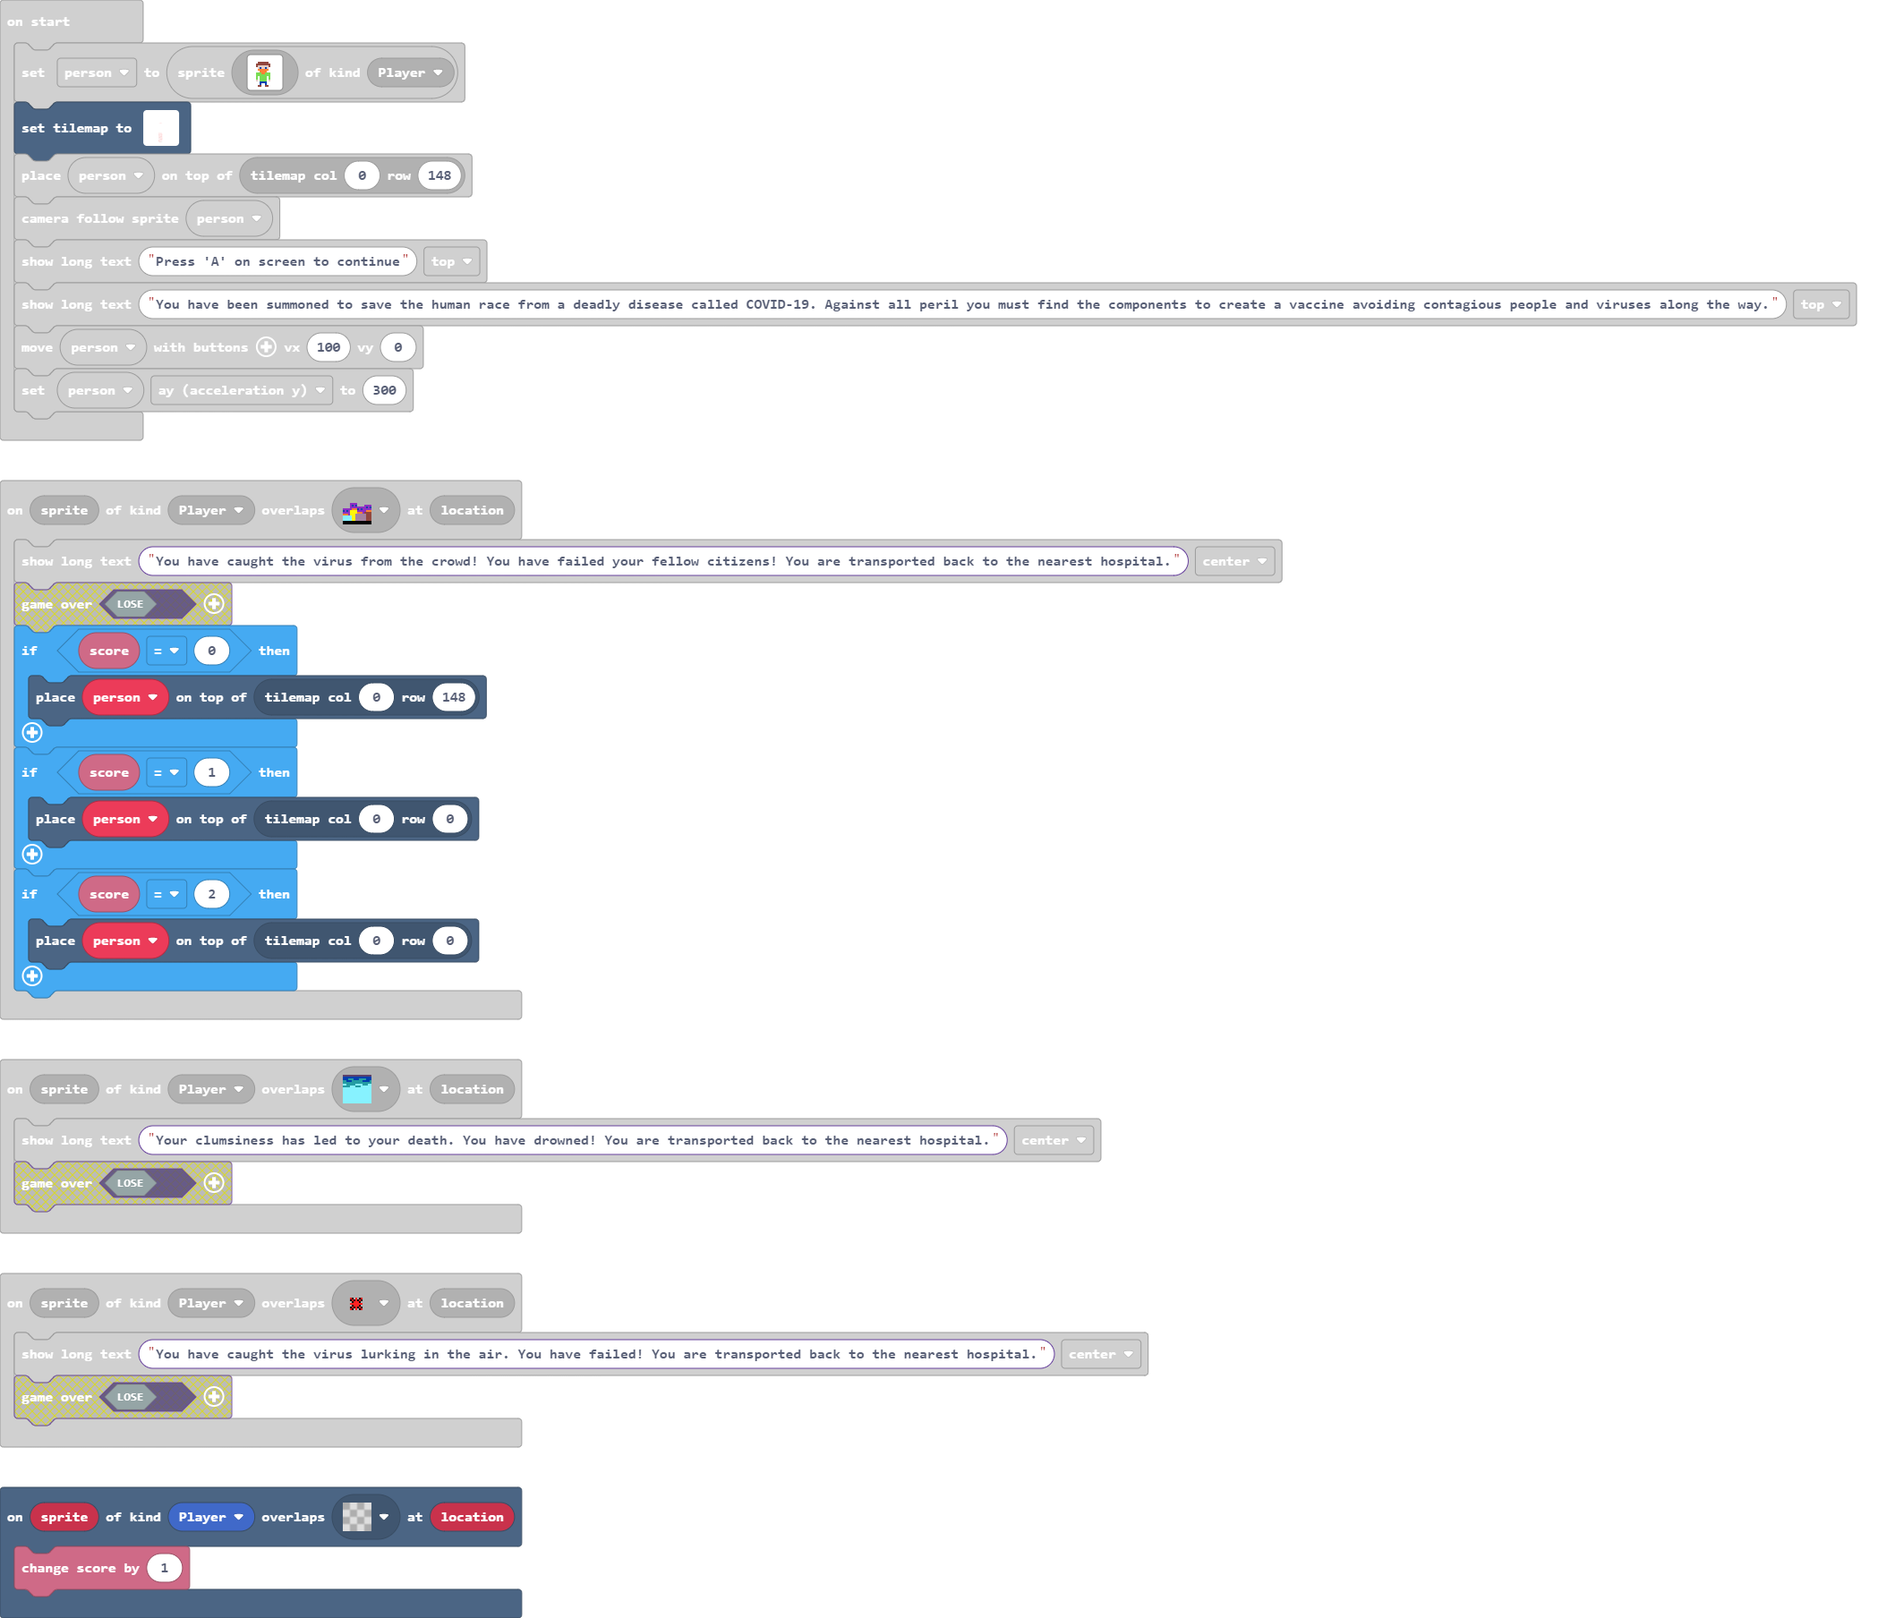
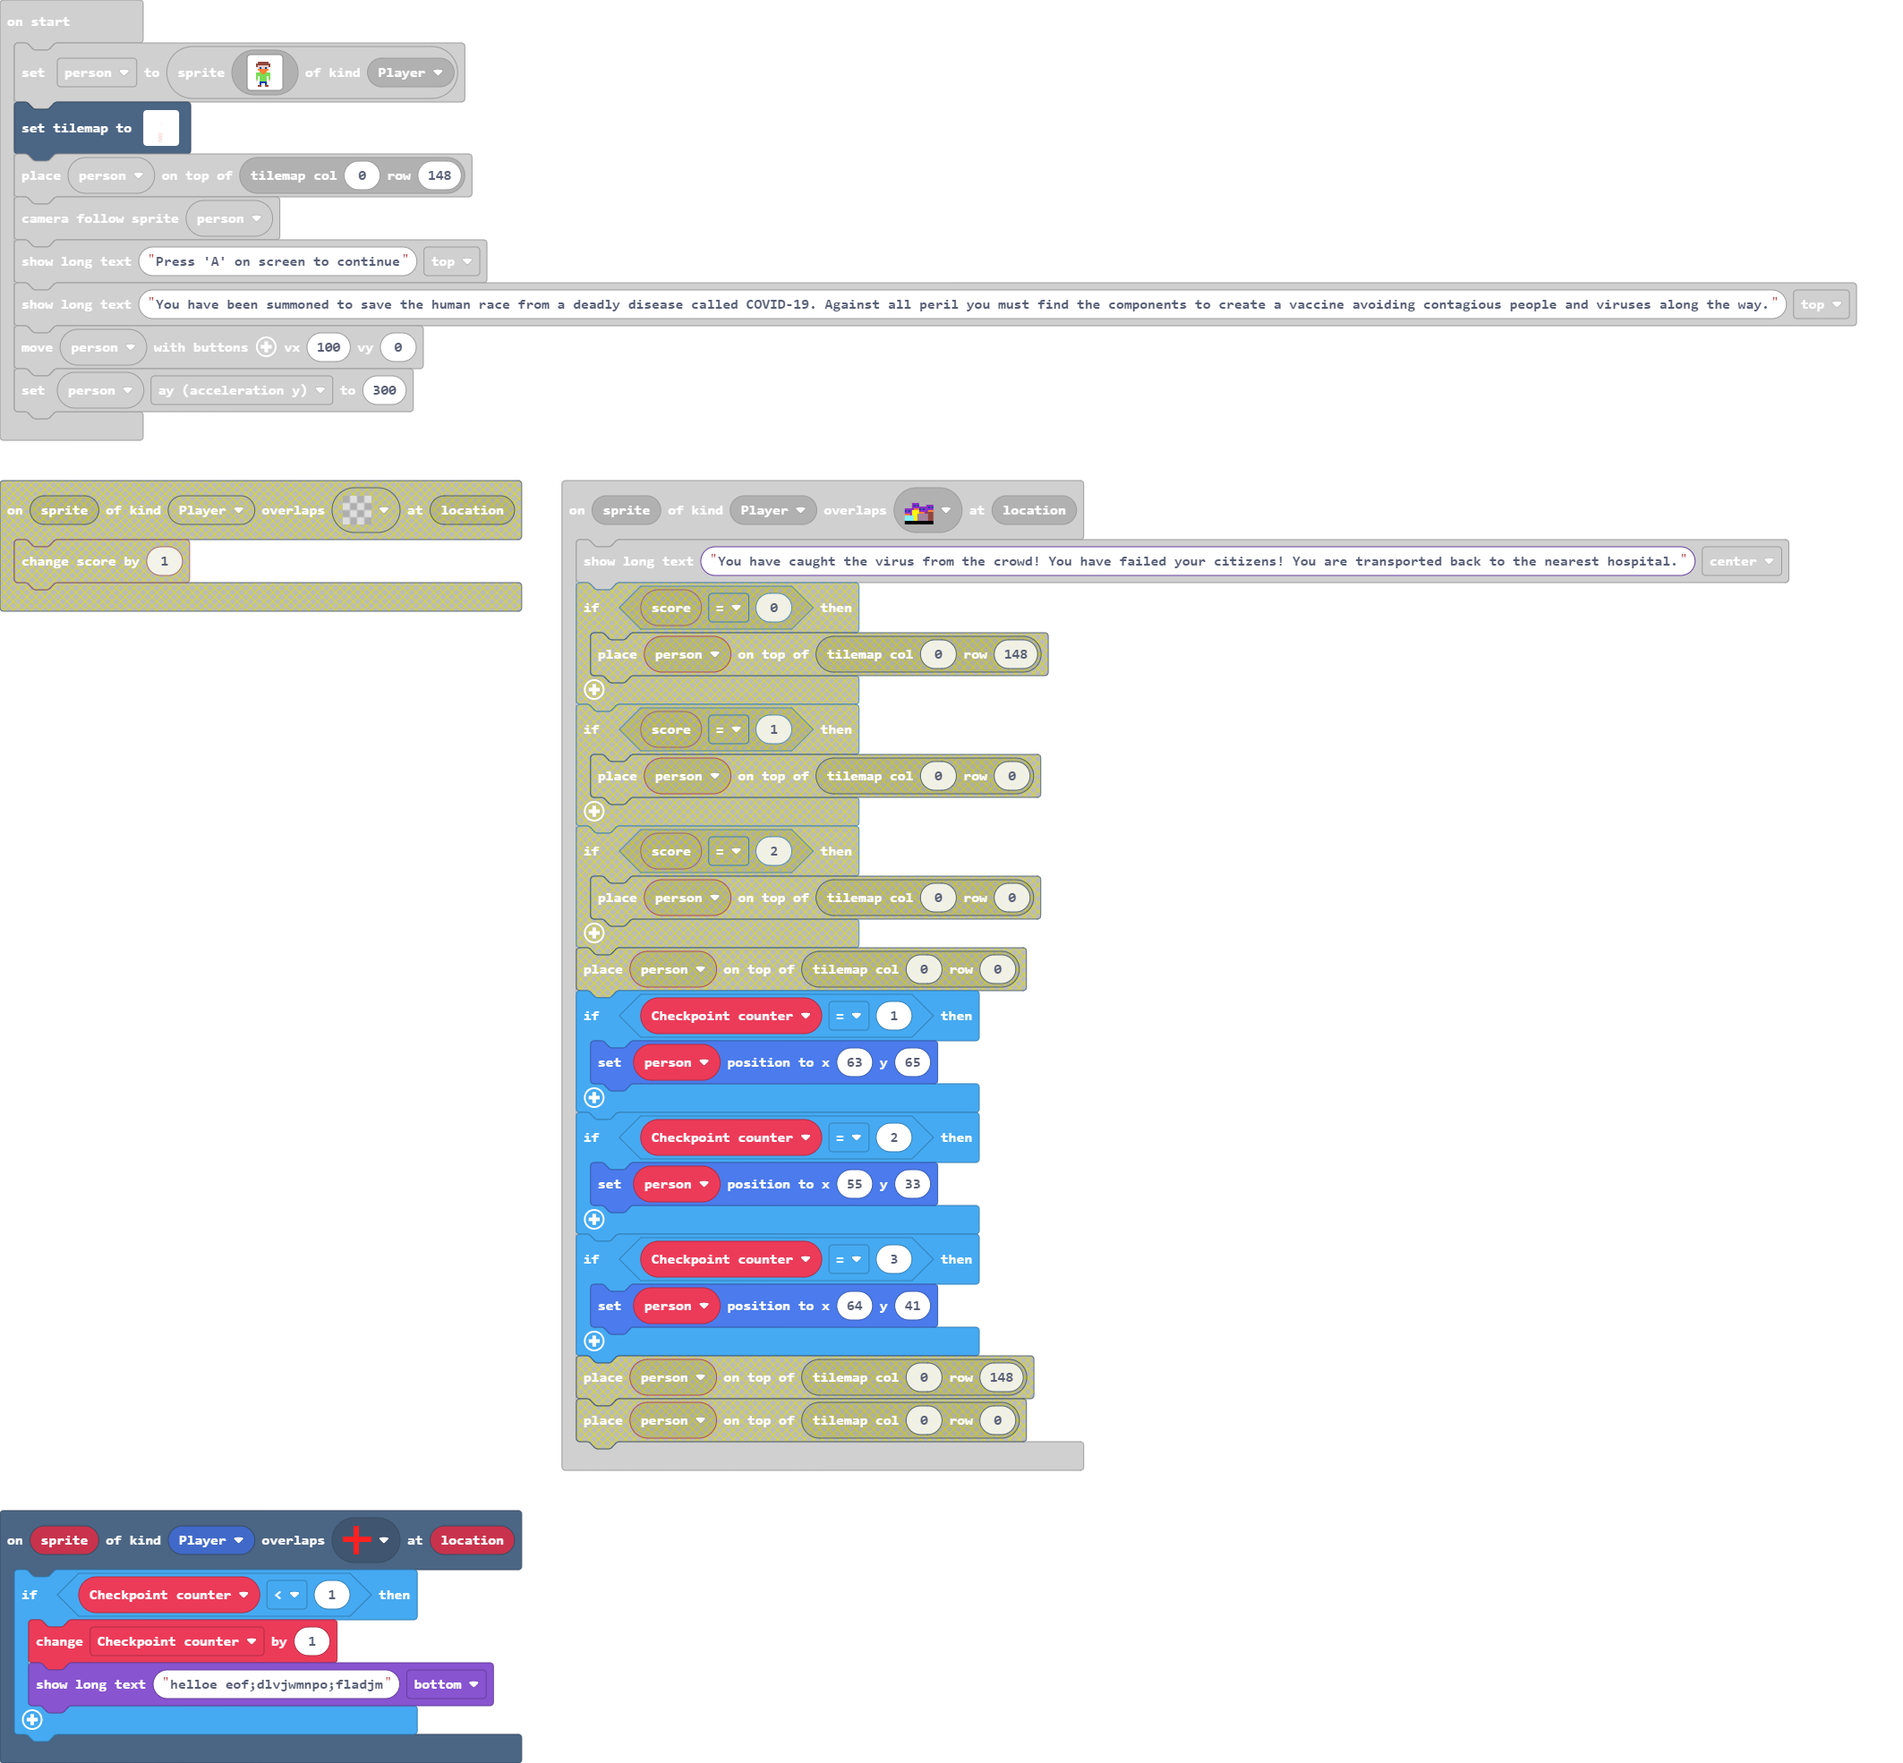
Variable Mark 02

diff --git a/main.ts b/main.ts
@@ -9,22 +9,25 @@ controller.up.onEvent(ControllerButtonEvent.Pressed, function () {
         person.vy = -150
     }
 })
-scene.onOverlapTile(SpriteKind.Player, myTiles.transparency16, function (sprite, location) {
-    info.changeScoreBy(1)
+scene.onOverlapTile(SpriteKind.Player, myTiles.tile8, function (sprite, location) {
+    if (Checkpoint_counter < 1) {
+        Checkpoint_counter += 1
+        game.showLongText("helloe eof;dlvjwmnpo;fladjm", DialogLayout.Bottom)
+    }
 })
 scene.onOverlapTile(SpriteKind.Player, sprites.dungeon.hazardWater, function (sprite, location) {
     game.showLongText("Your clumsiness has led to your death. You have drowned! You are transported back to the nearest hospital.", DialogLayout.Center)
 })
 scene.onOverlapTile(SpriteKind.Player, myTiles.tile7, function (sprite, location) {
-    game.showLongText("You have caught the virus from the crowd! You have failed your fellow citizens! You are transported back to the nearest hospital.", DialogLayout.Center)
-    if (info.score() == 0) {
-        tiles.placeOnTile(person, tiles.getTileLocation(0, 148))
+    game.showLongText("You have caught the virus from the crowd! You have failed your citizens! You are transported back to the nearest hospital.", DialogLayout.Center)
+    if (Checkpoint_counter == 1) {
+        person.setPosition(63, 65)
     }
-    if (info.score() == 1) {
-        tiles.placeOnTile(person, tiles.getTileLocation(0, 0))
+    if (Checkpoint_counter == 2) {
+        person.setPosition(55, 33)
     }
-    if (info.score() == 2) {
-        tiles.placeOnTile(person, tiles.getTileLocation(0, 0))
+    if (Checkpoint_counter == 3) {
+        person.setPosition(64, 41)
     }
 })
 controller.down.onEvent(ControllerButtonEvent.Pressed, function () {
@@ -33,6 +36,7 @@ controller.down.onEvent(ControllerButtonEvent.Pressed, function () {
 scene.onOverlapTile(SpriteKind.Player, sprites.dungeon.chestOpen, function (sprite, location) {
     game.showLongText("The chest is empty there are no components to find here!", DialogLayout.Top)
 })
+let Checkpoint_counter = 0
 let person: Sprite = null
 person = sprites.create(img`
     . . . . . . . . . . . . . . . . 
@@ -52,7 +56,7 @@ person = sprites.create(img`
     . . . . . 8 . . 8 . . . . . . . 
     . . . . e e . . e e . . . . . . 
     `, SpriteKind.Player)
-tiles.setTilemap(tiles.createTilemap(hex`14009600000000000000000000000000000000000000000000000000000000000000000000000000000000000000000000000000000000000000000000000000000000000000000000000000000000000000000000000000000000000000000000000000000000000000000000000000000000000000000000000000000000000000000000000000000000000000000000000000000000000000000000000000000000000000000000000000000000000000000000000000000000000000000000000000000000000000000000000000000000000000000000000000000000000000000000000000000000000000000000000000000000000000000000000000000000000000000000000000000000000000000000000000000000000000000000000000000000000000000000000000000000000000000000000000000000000000000001000000000000000000000000000000000000000000000000000000000000000000000000000000000000000000000000000000000000000000000000000000000000000000000000000000000000000000000000000000000000000000000000000000000000000000000000000000000000000000000000000000000000000000000000000000000000000000000000000000000000000000000000000000000000000000000000000000000000000000000000000000000000000000000000000000000000000000000000000000000000000000000000000000000000000000000000000000000000000000000000000000000000000000000000000000000000000000000000000000000000000000000000000000000000000000000000000000000000000000000000000000000000000000000000000000000000000000000000000000000000000000000000000000000000000000000000000000000000000000000000000000000000000000000000000000000000000000000000000000000000000000000000000000000000000000000000000000000000000000000000000000000000000000000000000000000000000000000000000000000000000000000000000000000000000000000000000000000000000000000000000000000000000000000000000000000000000000000000000000000000000000000000000000000000000000000000000000000000000000000000000000000000000000000000000000000000000000000000000000000000000000000000000000000000000000000000000000000000000000000000000000000000000000000000000000000000000000000000000202020202000000000000000000000000000000000000000002020200000000000000000000000000000000000000000202000000000000000000000000000000000000000200000000000000020202020202020202020202020000000000000000000000000000000000000000000000000000000000000000000000000000000000000000000000000000000000000000000000000000000000000000000000000000000000000000000000000000000000000000000000000000000000000000000000000000000000000000000000000000000000000000000000000000000000000000000000000000000000000000000000000000000000000000000000000000000000000000000000000000000000000000000000000000000000000000000000000000000000000000000000000000000000000000000000000000000000000000000000000000000000000000000000000000000000000000000000000000000000000000000000000000000000000000000000000000000000000000000000000000000000000000000000000000000000000000000000000000000000000000000000000000000000000000000000000000000000000000000000000000000000000000000000000000000000000000000000000000000000000000000000000000000000000000000000000000000000000000000000000000000000000000000000000000000000000000000000000000000000000000000000000000000000000000000000000000000000000000000000000000000000000000000000000000000000000000000000000000000000000000000000000000000000000000000000000000000000000000000000000000000000000000000000000000000000000000000000000000000000000000000000000000000000000000000000000000000000000000000000000000000000000000000000000000000000000000000000000000000000000000000000000000000000000000000000000000000000000000000000000000000000000000000000000000000000000000000000000000000000000000000000000000000000000000000000000000000000000000000000000000000000000000000000000000000000000000000000000000000000000000000000000000000000000000000000000000000000000000000000000000000000000000000000000000000000000000000000000000000000000000000000000000000000000000000000000000000000000000000000000000000000000000000000000000000000000000000000000000000000000000000000000000000000000000000000000000000000000000000000000000000000000000000000000000000000000000000000000000000000000000000000000000000000000000000000000000000000020202020202020202000002020202020202020200000000000000000000000000000000000000000000000000000000000000000000000000000000000000000000000000000000000000000000000000000000000000000000000000000000000000000000000000000000000000020202020202020202020202020202020202020000000000000000000000000000000000000000080002020202020202020202020202020202020202000000000000000000000000000000000000000002020202020202020202020202020202020000020000000000000000000000000000000000000202030700000300000000000000000000000202020202020202020203000000000000000202020202020202020202020202000000000202020202020202000000000000000000000000000000000000000000000200020002000200020002000200020002000000000000000000000000000000000000000000000200020002000200020002000200020002000200000000000000000000000005000000000000000205020002000205020002000200020502000200000000000000000000000000020202020202020202020002000200020002020202020000000602020200000003030303030302000000000002020202020002020202020202020200000002020202020202000000000000000000000002000000000000000202020202020202020202000000000000000000000000000000000000000202000002020202000000000005000000000000020202020200000000080005000000050000000005000000000000000202000000050000000005000000000000000200020200000000000005000000000000000200020002020005000500000000000000000200020002000202000000000000000000000200020002000200020200000000000000000200020002000200020002020000000000000200020002000200020002000202000000000200020002000200020002000200020200000202020302030203020302030203020302020200000202020202020202020202020202020202020200000000000000000000000000000000000002020200000000000000000000000000000000000202020200000005000900000000000000000000020202020200000000090002000000000000000002020202020000090900000000020000000000000200000202020902020200000000000200000000020700000209000000000000000000000002000000020000000000000000000000000000000000000000020000000202030302020000000000000200000000000002020202020202020000000200000008000000020202000000000000000200000000000202020202020404040404040404040404040404`, img`
+tiles.setTilemap(tiles.createTilemap(hex`14009600000000000000000000000000000000000000000000000000000000000000000000000000000000000000000000000000000000000000000000000000000000000000000000000000000000000000000000000000000000000000000000000000000000000000000000000000000000000000000000000000000000000000000000000000000000000000000000000000000000000000000000000000000000000000000000000000000000000000000000000000000000000000000000000000000000000000000000000000000000000000000000000000000000000000000000000000000000000000000000000000000000000000000000000000000000000000000000000000000000000000000000000000000000000000000000000000000000000000000000000000000000000000000000000000000000000000000001000000000000000000000000000000000000000000000000000000000000000000000000000000000000000000000000000000000000000000000000000000000000000000000000000000000000000000000000000000000000000000000000000000000000000000000000000000000000000000000000000000000000000000000000000000000000000000000000000000000000000000000000000000000000000000000000000000000000000000000000000000000000000000000000000000000000000000000000000000000000000000000000000000000000000000000000000000000000000000000000000000000000000000000000000000000000000000000000000000000000000000000000000000000000000000000000000000000000000000000000000000000000000000000000000000000000000000000000000000000000000000000000000000000000000000000000000000000000000000000000000000000000000000000000000000000000000000000000000000000000000000000000000000000000000000000000000000000000000000000000000000000000000000000000000000000000000000000000000000000000000000000000000000000000000000000000000000000000000000000000000000000000000000000000000000000000000000000000000000000000000000000000000000000000000000000000000000000000000000000000000000000000000000000000000000000000000000000000000000000000000000000000000000000000000000000000000000000000000000000000000000000000000000000000000000000000000000000000000202020202000000000000000000000000000000000000000002020200000000000000000000000000000000000000000202000000000000000000000000000000000000000200000000000000020202020202020202020202020000000000000000000000000000000000000000000000000000000000000000000000000000000000000000000000000000000000000000000000000000000000000000000000000000000000000000000000000000000000000000000000000000000000000000000000000000000000000000000000000000000000000000000000000000000000000000000000000000000000000000000000000000000000000000000000000000000000000000000000000000000000000000000000000000000000000000000000000000000000000000000000000000000000000000000000000000000000000000000000000000000000000000000000000000000000000000000000000000000000000000000000000000000000000000000000000000000000000000000000000000000000000000000000000000000000000000000000000000000000000000000000000000000000000000000000000000000000000000000000000000000000000000000000000000000000000000000000000000000000000000000000000000000000000000000000000000000000000000000000000000000000000000000000000000000000000000000000000000000000000000000000000000000000000000000000000000000000000000000000000000000000000000000000000000000000000000000000000000000000000000000000000000000000000000000000000000000000000000000000000000000000000000000000000000000000000000000000000000000000000000000000000000000000000000000000000000000000000000000000000000000000000000000000000000000000000000000000000000000000000000000000000000000000000000000000000000000000000000000000000000000000000000000000000000000000000000000000000000000000000000000000000000000000000000000000000000000000000000000000000000000000000000000000000000000000000000000000000000000000000000000000000000000000000000000000000000000000000000000000000000000000000000000000000000000000000000000000000000000000000000000000000000000000000000000000000000000000000000000000000000000000000000000000000000000000000000000000000000000000000000000000000000000000000000000000000000000000000000000000000000000000000000000000000000000000000000000000000000000000000000000000000000000000000000000000000000000000020202020202020202000002020202020202020200000000000000000000000000000000000000000000000000000000000000000000000000000000000000000000000000000000000000000000000000000000000000000000000000000000000000000000000000000000000000020202020202020202020202020202020202020000000000000000000000000000000000000000000002020202020202020202020202020202020202000000000000000000000000000000000000000002020202020202020202020202020202020000020000000000000000000000000000000000000202030700000300000000000000000000000202020202020202020203000000000000000202020202020202020202020202000000000202020202020202000000000000000000000000000000000000000000000200020002000200020002000200020002000000000000000000000000000000000000000000000200020002000200020002000200020002000200000000000000000000000005000000000000000205020002000205020002000200020502000200000000000000000000000000020202020202020202020002000200020002020202020000000602020200000003030303030302000000000002020202020002020202020202020200000002020202020002000000000000000000000002000000000000000202020202020202020202000000000000000000000000000800000000000202000002020202000000000005000000000000020202020200000000000005000000050000000005000000000000000202000000050000000005000000000000000200020200000000000005000000000000000200020002020005000500000000000000000200020002000202000000000000000000000200020002000200020200000000000000000200020002000200020002020000000000000200020002000200020002000202000000000200020002000200020002000200020200000202020302030203020302030203020302020200000202020202020202020202020202020202020200000000000000000000000000000000000002020200000000000000000000000000000000000202020200000005000900000000000000000000020202020200000000090002000000000000000002020202020000090900000000020000000000000202020202020902020200000000000200000000000200000209000000000000000000000002000000020200000000000000000000000000000000000002020200000202030302020000000000000200000202000002020202020202020000000200000008000000020202000000000000000200000000000202020202020404040404040404040404040404`, img`
     ....................
     ....................
     ....................
@@ -176,7 +180,7 @@ tiles.setTilemap(tiles.createTilemap(hex`140096000000000000000000000000000000000
     ............22222222
     22.2.2.2.22222....22
     2.........2.....2222
-    2.222222222...222222
+    2.222222222...22222.
     2...........2.......
     22222222222.........
     ..........22..2222..
@@ -196,11 +200,11 @@ tiles.setTilemap(tiles.createTilemap(hex`140096000000000000000000000000000000000
     2222................
     22222......2........
     22222........2......
-    2..2222222.....2....
-    2...2............2..
-    .2..................
-    ..2...22..22......2.
-    .....22222222...2...
+    2222222222.....2....
+    .2..2............2..
+    .22.................
+    .222..22..22......2.
+    .22..22222222...2...
     ....222.......2.....
     222222..............
     `, [myTiles.transparency16,sprites.dungeon.floorLight0,myTiles.tile5,myTiles.tile7,sprites.dungeon.hazardWater,myTiles.tile3,sprites.dungeon.chestClosed,sprites.dungeon.chestOpen,myTiles.tile8,myTiles.tile6], TileScale.Sixteen))
